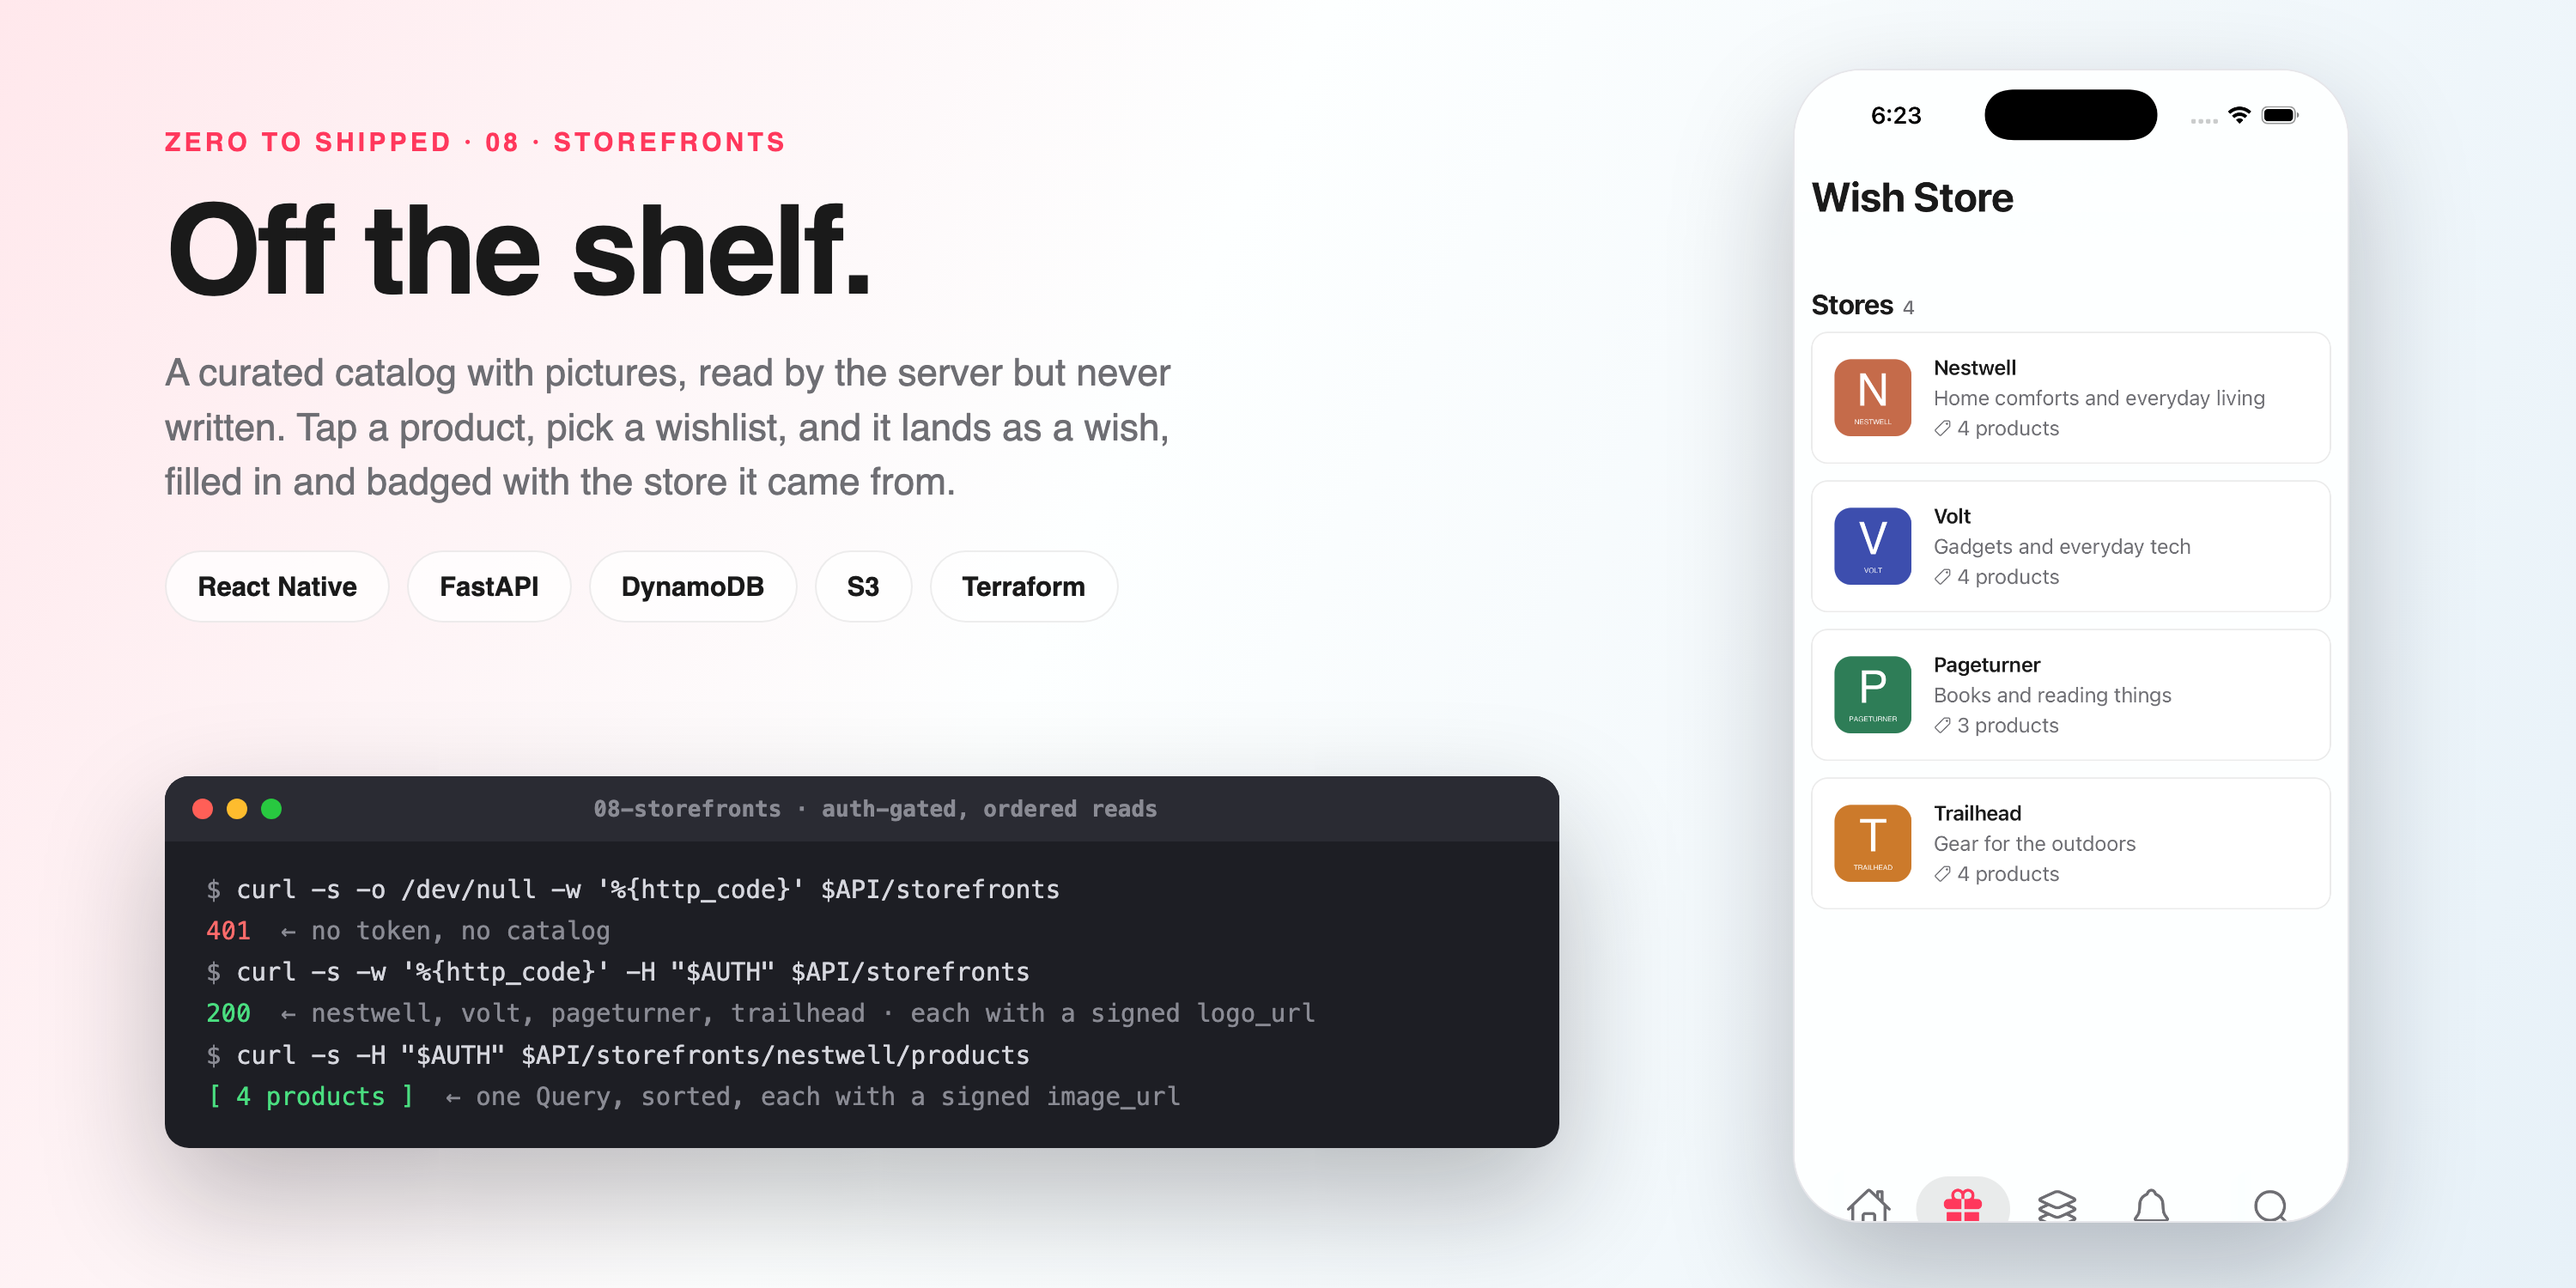
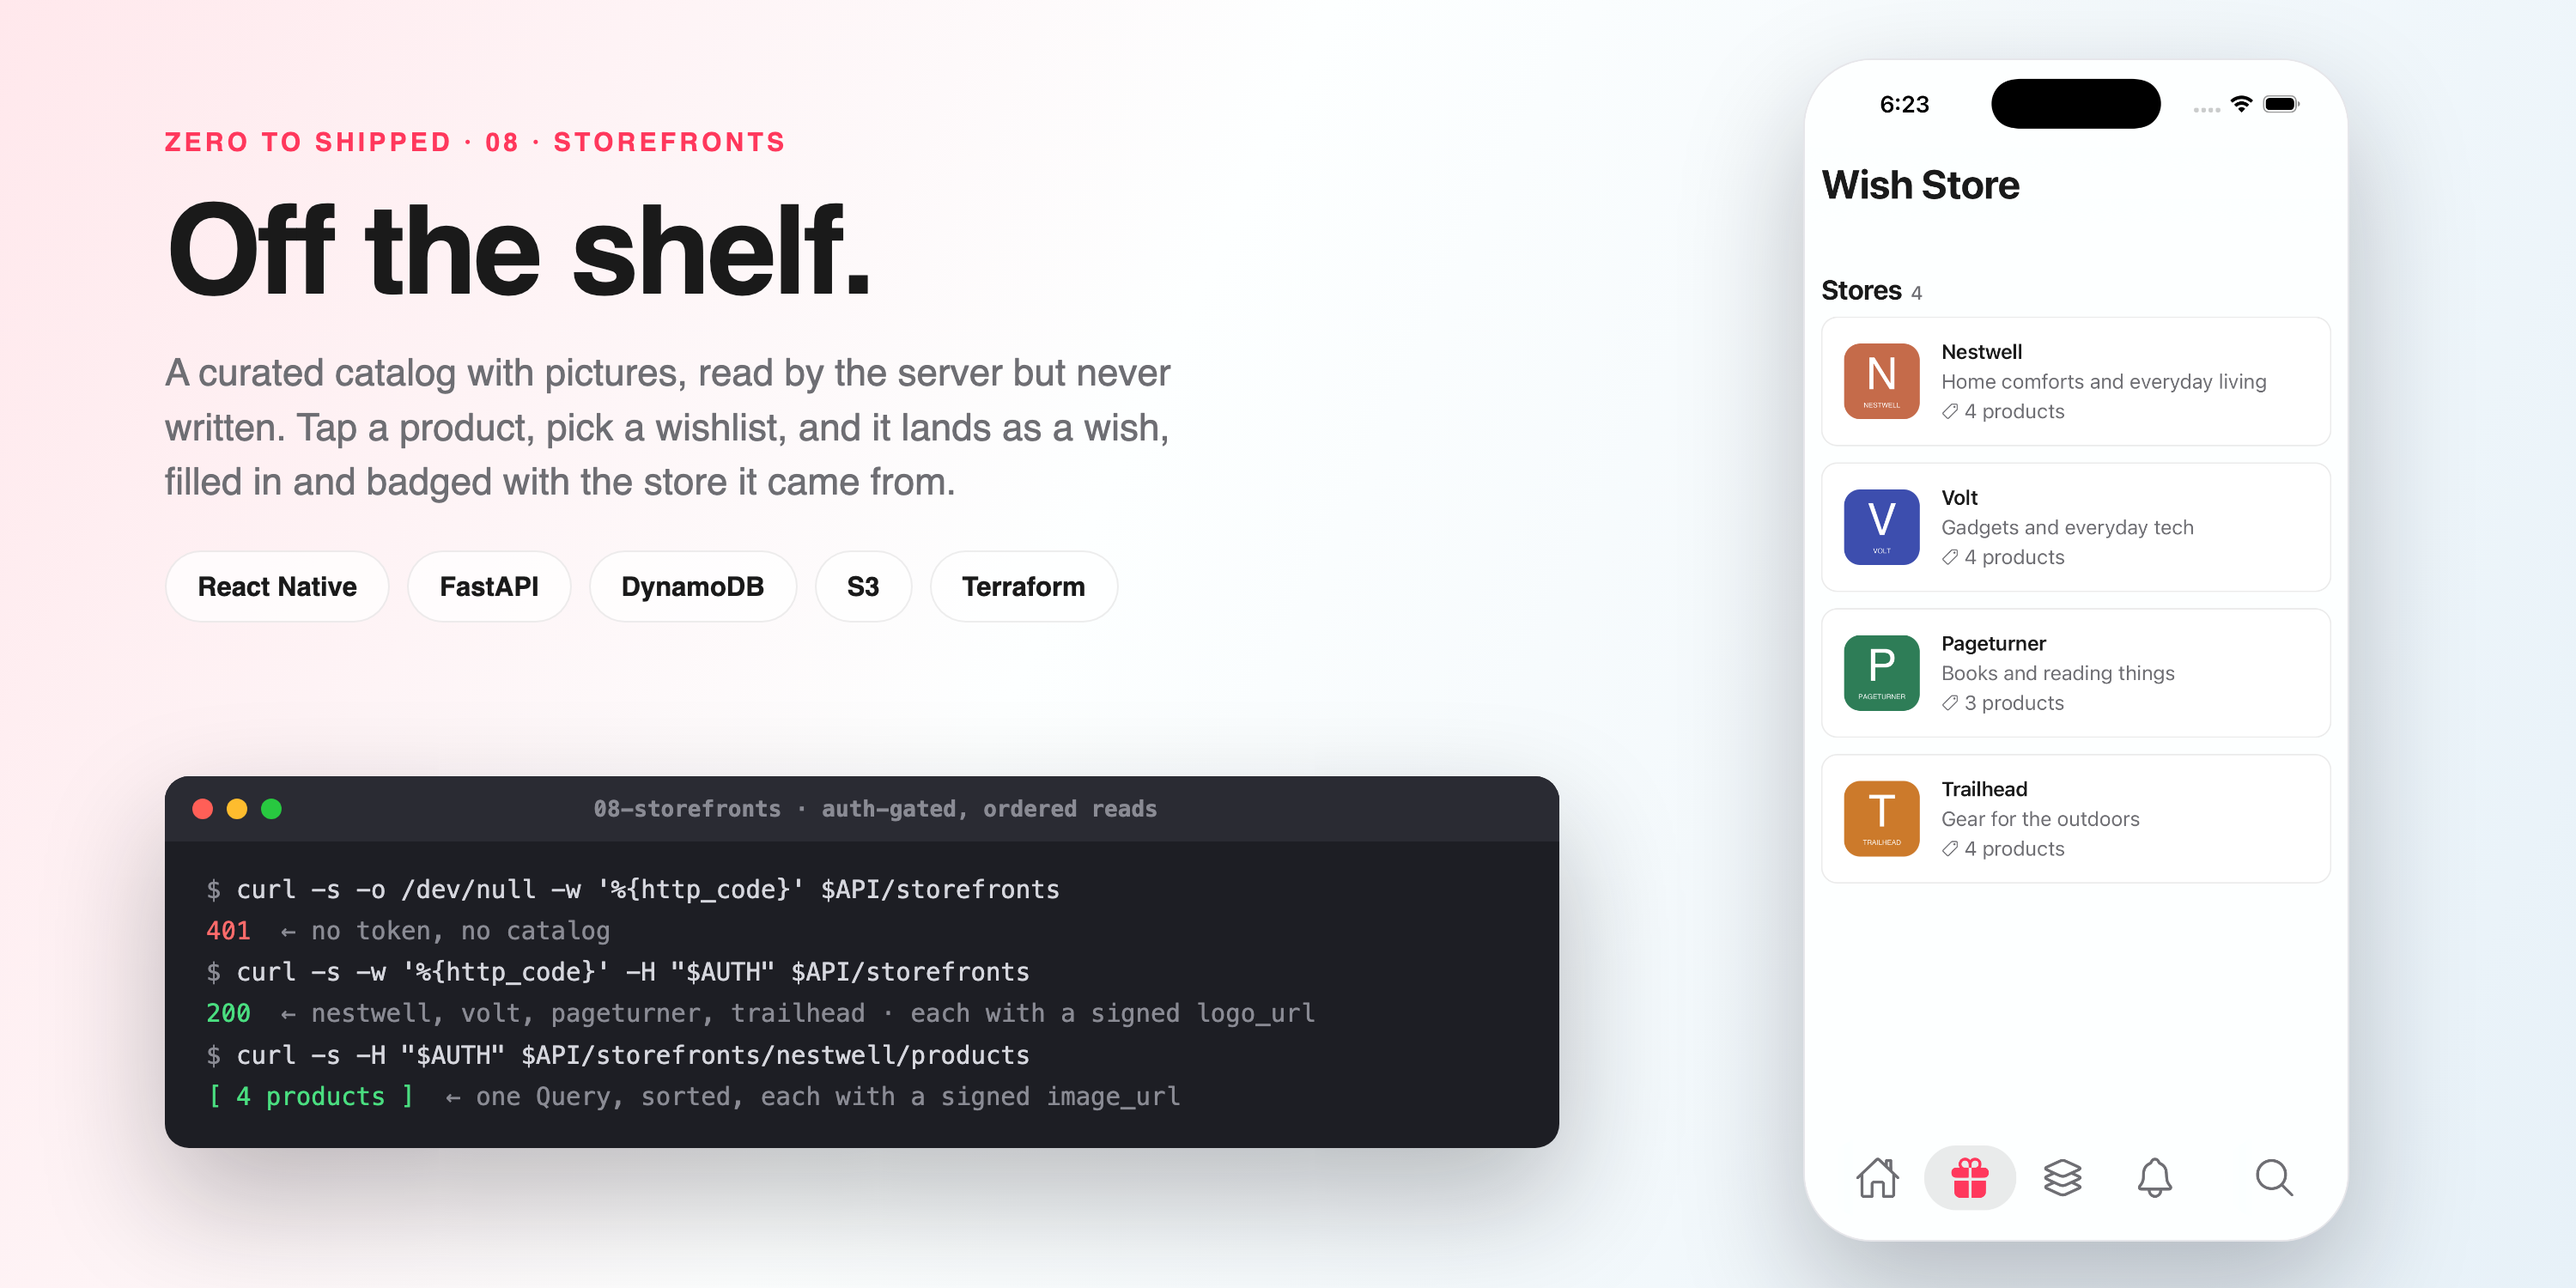
Fix hero-08 tab-bar clipping; hero sources render from committed assets (#89)
The user caught the cover's phone panel cutting the tab icons in half:
.shot pinned a 670px height while the screenshot needs ~700 at that
width, so overflow:hidden sliced the tab bar. Dropped the fixed height
and matched hero-10's treatment; all five icons now render whole.

Class sweep: hero-09 and hero-10 sources referenced session-local
file:/// screenshots that could never re-render after the session.
Their screenshots are now committed (shot-09-browser.png,
shot-10-discover.png) and referenced relatively; re-renders verified
pixel-identical to the committed PNGs.

Changed region(s): [[0.682, 0.0613, 0.93, 0.9813], [0.868, 0.0613, 0.899, 0.092], [0.713, 0.0613, 0.744, 0.092]]

diff --git a/mocks/hero-08.html b/mocks/hero-08.html
@@ -20,7 +20,7 @@
   .tbody{padding:16px 24px 18px;font-family:'SF Mono',Menlo,monospace;font-size:14.5px;line-height:1.66;color:#D6D7DE}
   .g{color:#4ADE80}.r{color:#FF6B6B}.p{color:#FF6B8A}.dim{color:#8A8B94}
   /* phone: floated real screenshot */
-  .shot{position:absolute;right:132px;top:40px;width:322px;height:670px;border-radius:40px;overflow:hidden;
+  .shot{position:absolute;right:132px;top:34px;width:316px;border-radius:40px;overflow:hidden;
     box-shadow:0 30px 70px rgba(20,20,30,.26);border:1px solid #e6e6ea;background:#fff}
   .shot img{width:100%;display:block}
 </style></head><body>

diff --git a/mocks/hero-10.html b/mocks/hero-10.html
@@ -49,7 +49,7 @@
     </div>
   </div>
   <div class="shot">
-    <img src="file:///private/tmp/claude-501/-Users-srivardhanjalan-workspace/0abc66bd-8772-48ab-b994-f3ae3c0c4c7f/scratchpad/e2e10/a-06-discover.png">
+    <img src="shot-10-discover.png">
   </div>
 </div>
 </body></html>

diff --git a/mocks/hero-09.html b/mocks/hero-09.html
@@ -49,7 +49,7 @@
     </div>
   </div>
   <div class="shot">
-    <img src="file:///private/tmp/claude-501/-Users-srivardhanjalan-workspace/0abc66bd-8772-48ab-b994-f3ae3c0c4c7f/scratchpad/shots/S3-browser.png">
+    <img src="shot-09-browser.png">
   </div>
 </div>
 </body></html>
